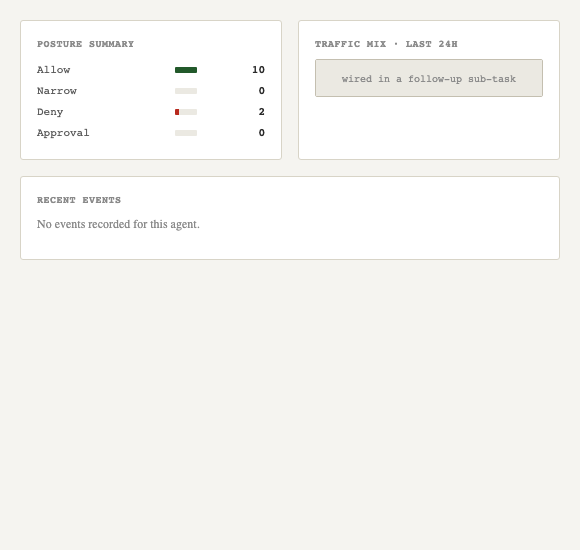
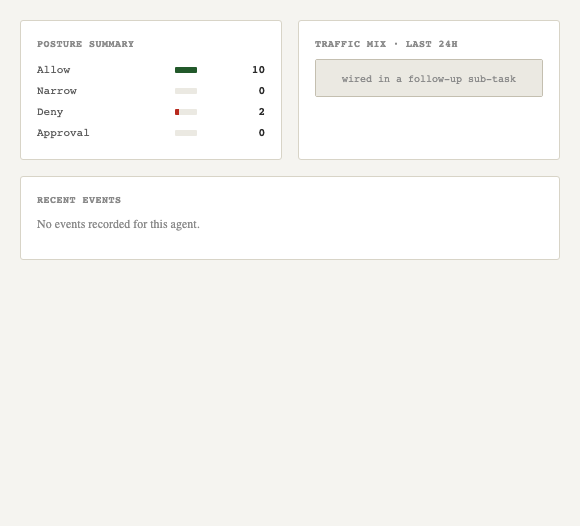
Merge pull request #425 from AI-agent-assembly/v0.0.1/AAASM-1409/fix/drawer_action_buttons
[AAASM-1409] 🐛 (dashboard/fleet): Add trace + shadow mode buttons to Agent Detail drawer head

Pull request: [AAASM-1409] 🐛 (dashboard/fleet): Add trace + shadow mode buttons to Agent Detail drawer head
## Description

Fixes the missing-buttons bug surfaced by re-reviewing AAASM-1405's regenerated screenshots against the hi-fi prototype. The hi-fi (`design/v1/hi-fi/agent-detail.jsx` lines 215-220) specifies a **three-button** action group in the drawer head; AAASM-1052 only shipped the suspend/resume one.

- **`AgentDetailPage.tsx`** — prepends `⎈ trace last call` and `→ shadow mode` buttons to the `ad-head__actions` group, both neutral styling, both wired to mock toasts per the hi-fi reference. Button order matches the hi-fi: trace → shadow → suspend/resume (status-conditional).
- **`AgentDetailPage.test.tsx`** — 4 new vitest cases (3-button render for active, 3-button render for suspended, trace toast, shadow toast).
- **Regenerated screenshots + report** — `07-detail-head.png` now shows all three buttons; surface 07 narrative enumerates the full group and notes both AAASM-1405 + AAASM-1409 resolutions.

## Type of Change

- [ ] ✨ New feature
- [x] 🐛 Bug fix
- [ ] ♻️ Refactoring
- [ ] 🍀 Performance improvement
- [x] 📝 Documentation update _(fidelity report)_
- [ ] 🔧 Configuration / CI change
- [ ] ⬆️ Dependency upgrade
- [ ] 🚀 Release

## Breaking Changes

- [x] No

The two new buttons fire mock toasts only; real wiring is explicitly out of scope and deferred to follow-up Stories (trace page navigation; gateway mode-change endpoint).

## Related Issues
[…]

diff --git a/dashboard/src/pages/AgentDetailPage.test.tsx b/dashboard/src/pages/AgentDetailPage.test.tsx
@@ -218,3 +218,54 @@ describe('AgentDetailPage loading and error states', () => {
     expect(refetch).toHaveBeenCalledTimes(1)
   })
 })
+
+describe('AgentDetailPage drawer head action buttons', () => {
+  it('renders the trace + shadow + suspend three-button group for an active agent', async () => {
+    mockHappyPath()
+    renderApp('/agents/abc123')
+    await screen.findByTestId('agent-detail')
+    expect(screen.getByTestId('agent-detail-trace')).toBeInTheDocument()
+    expect(screen.getByTestId('agent-detail-trace')).toHaveTextContent(/trace last call/i)
+    expect(screen.getByTestId('agent-detail-shadow')).toBeInTheDocument()
+    expect(screen.getByTestId('agent-detail-shadow')).toHaveTextContent(/shadow mode/i)
+    expect(screen.getByTestId('agent-detail-suspend')).toBeInTheDocument()
+    expect(screen.queryByTestId('agent-detail-resume')).not.toBeInTheDocument()
+  })
+
+  it('swaps suspend for resume when the agent is already suspended (3-button group intact)', async () => {
+    vi.spyOn(agentsApi, 'useAgentsQuery').mockReturnValue(
+      mockQuery<Agent[]>({ data: [MOCK_AGENT], isLoading: false, isError: false, refetch: vi.fn() }),
+    )
+    vi.spyOn(agentsApi, 'useAgentQuery').mockReturnValue(
+      mockQuery<Agent | undefined>({
+        data: { ...MOCK_AGENT, status: 'suspended' },
+        isLoading: false,
+        isError: false,
+        refetch: vi.fn(),
+      }),
+    )
+    vi.spyOn(agentsApi, 'useAgentEventsQuery').mockReturnValue(
+      mockQuery<LogEntry[]>({ data: [MOCK_LOG], isLoading: false, isError: false }),
+    )
+    renderApp('/agents/abc123')
+    await screen.findByTestId('agent-detail')
+    expect(screen.getByTestId('agent-detail-trace')).toBeInTheDocument()
+    expect(screen.getByTestId('agent-detail-shadow')).toBeInTheDocument()
+    expect(screen.getByTestId('agent-detail-resume')).toBeInTheDocument()
+    expect(screen.queryByTestId('agent-detail-suspend')).not.toBeInTheDocument()
+  })
+
+  it('trace last call button fires a toast with the agent id', async () => {
+    mockHappyPath()
+    renderApp('/agents/abc123')
+    fireEvent.click(await screen.findByTestId('agent-detail-trace'))
+    expect(await screen.findByText(/Opened trace for abc123/)).toBeInTheDocument()
+  })
+
+  it('shadow mode button fires a mock toast', async () => {
+    mockHappyPath()
+    renderApp('/agents/abc123')
+    fireEvent.click(await screen.findByTestId('agent-detail-shadow'))
+    expect(await screen.findByText(/Switched abc123 to shadow mode/)).toBeInTheDocument()
+  })
+})

diff --git a/dashboard/src/pages/AgentDetailPage.tsx b/dashboard/src/pages/AgentDetailPage.tsx
@@ -266,6 +266,22 @@ export function AgentDetailPage() {
                 </h1>
               </div>
               <div className="ad-head__actions">
+                <button
+                  type="button"
+                  className="ad-head__btn"
+                  onClick={() => toast(`Opened trace for ${agent.id}`, 'info')}
+                  data-testid="agent-detail-trace"
+                >
+                  ⎈ trace last call
+                </button>
+                <button
+                  type="button"
+                  className="ad-head__btn"
+                  onClick={() => toast(`Switched ${agent.id} to shadow mode (mock)`, 'info')}
+                  data-testid="agent-detail-shadow"
+                >
+                  → shadow mode
+                </button>
                 {agent.status === 'suspended' ? (
                   <button
                     type="button"

diff --git a/verification-reports/AAASM-217-design-fidelity.md b/verification-reports/AAASM-217-design-fidelity.md
@@ -173,12 +173,24 @@ resolves to the `--danger` RGB token. `N selected` counter present.
 | **Hi-fi** | `design/v1/hi-fi/agent-detail.jsx` lines 200-220 |
 | **Implementation** | `AgentDetailPage.tsx` lines 205-260 |
 | **Screenshot** | `07-detail-head.png` |
-| **Verdict** | ✅ Matches (AAASM-1405 portal fix landed) |
+| **Verdict** | ✅ Matches (AAASM-1405 portal fix + AAASM-1409 button group landed) |
 
-The head's structural elements (breadcrumb, flag dot, title, framework
-chip, owner @-handle, action buttons) render in the correct order with
-the hi-fi class palette and are no longer obscured by the AppShell
-topbar — see the resolved Findings entry above.
+The head's structural elements all render in the correct hi-fi order:
+
+* Breadcrumb `← fleet › <id>` (left)
+* Flag dot (when `policy_violations_count ≥ FLEET_FLAGGED_THRESHOLD`)
+* Title with agent name + framework chip + owner @-handle
+* Three-button action group (right): `⎈ trace last call` · `→ shadow mode`
+  · `■ suspend` / `▶ resume` (status-conditional)
+
+Two earlier deltas have been resolved:
+
+* **AAASM-1405** — the AppShell topbar no longer obscures the drawer head
+  (Drawer portalled to `document.body`, `z-index: 1000`).
+* **AAASM-1409** — the trace + shadow buttons that were missing from the
+  original sub-task implementation are now present and wired to toasts.
+  Real wiring (navigation to the trace page, gateway mode-change mutation)
+  is deferred to follow-up Stories.
 
 ### 08 — Agent Detail identity strip
 